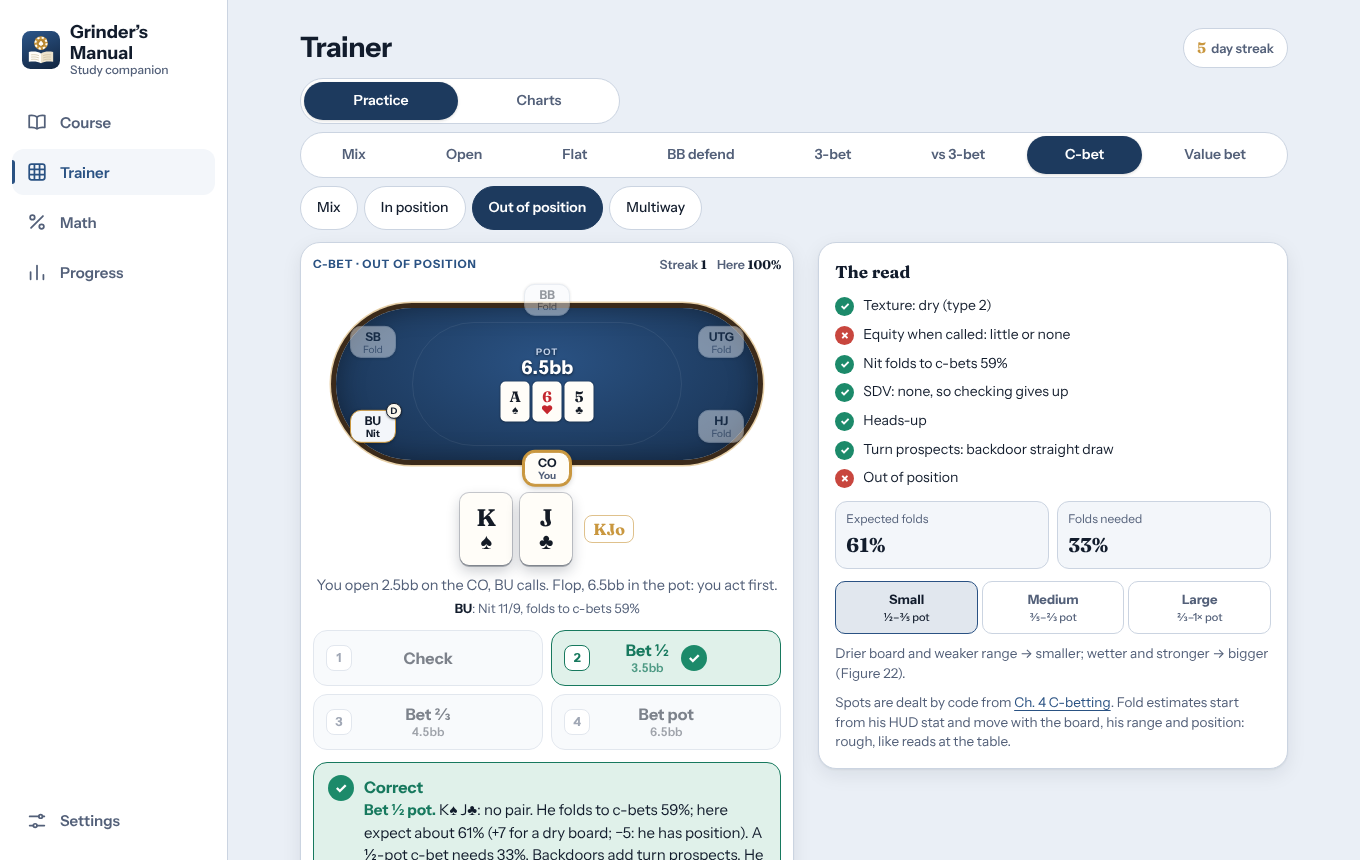
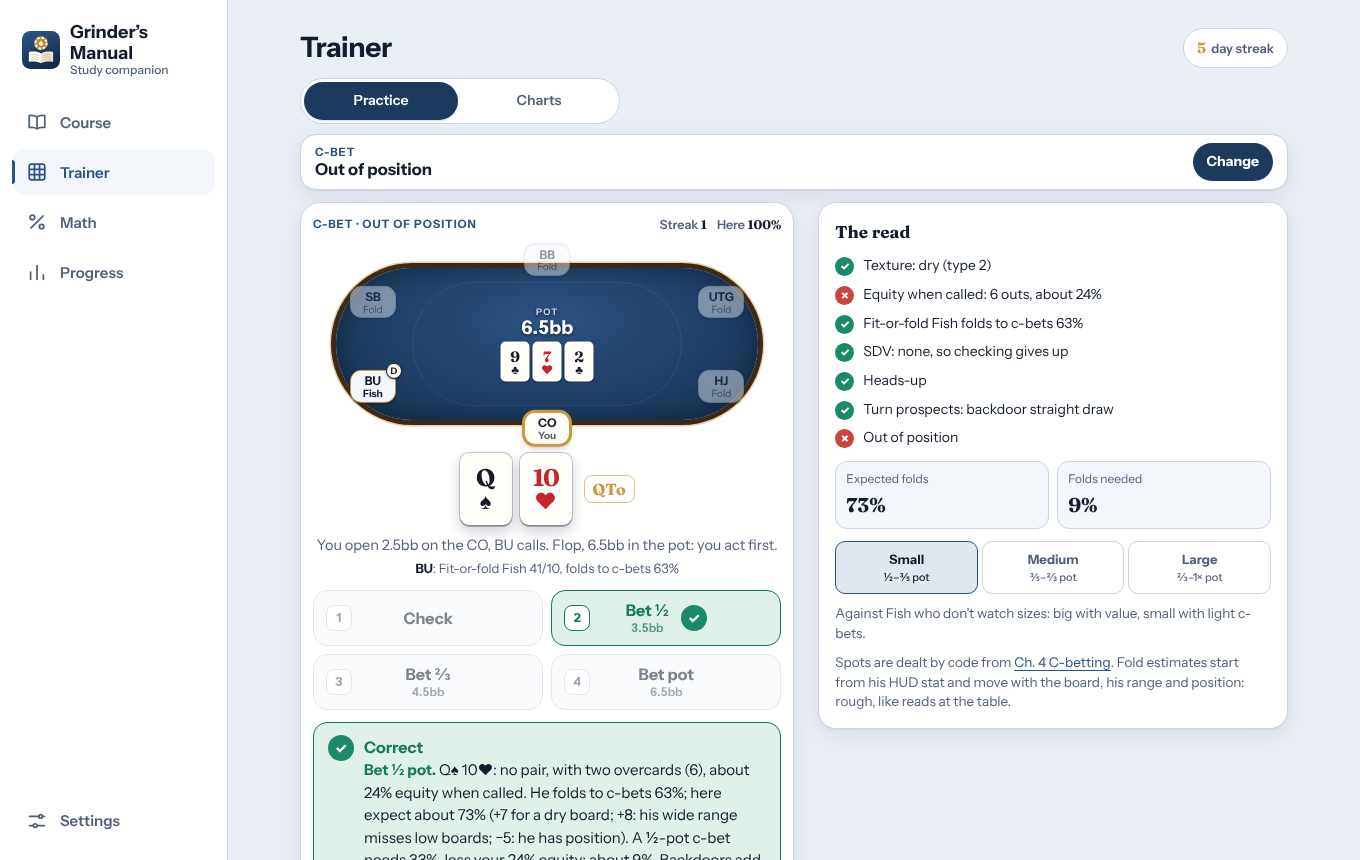
Trainer: pick topics from one bar and a list (v2.14.0)
The two sideways-scrolling rows (groups, then spots) were cut off on
phones and hid the Mix options. Practice and Charts now show one bar
with the current topic; tapping it opens a sheet listing every topic
by group (pre-flop, post-flop), with Mix rows, the all-topics mix
toggles, and your accuracy and due reviews on each spot.

Claude-Session: https://claude.ai/code/session_01WSPbWCX6AwDLBdZwwdxWUU

Changed region(s): [[0.2162, 0.1512, 0.9574, 1.0]]

diff --git a/index.html b/index.html
@@ -343,15 +343,50 @@ select,input[type=number]{background:var(--surface);border:1.5px solid var(--lin
 @media (hover:none) and (pointer:coarse){.opt .k{display:none}.acts .opt,.acts.n3 .opt{padding:0 8px}.kbd-only{display:none!important}}
 @media (max-width:440px){#v-ranges>.seg button{font-size:12.5px;padding:0 9px}}
 @media (max-width:440px){.acts.n3 .opt{padding:0 6px;font-size:15.5px}.acts.n3 .opt .k{display:none}}
-.tabseg{margin-bottom:8px;max-width:320px}
+.tabseg{margin-bottom:10px;max-width:320px}
+#v-ranges .tpk-bar,#v-charts .tpk-bar{margin-bottom:4px}
 .chinfo p{margin:8px 0 0;font-size:15px;line-height:1.5;color:var(--muted)}
 .chinfo .cpick{color:var(--ink);min-height:46px;padding:10px 12px;border-radius:12px;background:var(--surface-2);border:1px solid var(--line);margin:12px 0}
 .chinfo .btn{width:100%}
 #v-charts .rc{cursor:pointer}
-/* Trainer: group row scrolls on phones; post-flop spots */
-.gseg{overflow-x:auto;scrollbar-width:none}
-.gseg::-webkit-scrollbar{display:none}
-.gseg button{flex:1 0 auto}
+/* topic picker */
+.tpk-bar{display:flex;align-items:center;gap:10px;width:100%;min-height:56px;padding:8px 14px;border-radius:16px;border:1.5px solid var(--line);background:var(--surface);color:var(--ink);text-align:left;box-shadow:var(--shadow);touch-action:manipulation}
+.tpk-bar:active,.tpk-bar.press{transform:scale(.99);border-color:var(--felt-2)}
+.tpk-txt{flex:1;min-width:0;display:flex;flex-direction:column;line-height:1.25}
+.tpk-txt small{font-size:11.5px;font-weight:700;text-transform:uppercase;letter-spacing:.08em;color:var(--accent)}
+.tpk-txt b{font-size:16.5px;font-weight:700;white-space:nowrap;overflow:hidden;text-overflow:ellipsis}
+.tpk-chg{flex:none;font-size:14px;font-weight:700;color:var(--felt-ink);background:var(--felt);padding:8px 14px;border-radius:999px}
+.tpk{position:fixed;inset:0;z-index:60;background:rgba(8,14,24,.5);display:flex;align-items:flex-end;justify-content:center;animation:tpkfade .15s ease-out}
+.tpk-sheet{background:var(--bg);width:100%;max-width:560px;max-height:88vh;border-radius:22px 22px 0 0;display:flex;flex-direction:column;box-shadow:0 -6px 30px rgba(0,0,0,.3);animation:tpkup .2s ease-out;padding-bottom:env(safe-area-inset-bottom)}
+@media (min-width:960px){.tpk{align-items:center}.tpk-sheet{border-radius:22px;max-height:80vh}}
+@keyframes tpkup{from{transform:translateY(40px);opacity:.6}to{transform:none;opacity:1}}
+@keyframes tpkfade{from{opacity:0}to{opacity:1}}
+@media (prefers-reduced-motion:reduce){.tpk,.tpk-sheet{animation:none}}
+.tpk-head{display:flex;align-items:center;justify-content:space-between;padding:14px 16px 10px;border-bottom:1px solid var(--line)}
+.tpk-head b{font-size:17px}
+.tpk-body{overflow-y:auto;padding:4px 14px 18px;overscroll-behavior:contain}
+.tpk-sec{font-size:11.5px;font-weight:700;text-transform:uppercase;letter-spacing:.1em;color:var(--muted);margin:16px 4px 8px}
+.tpk-grp{background:var(--surface);border:1px solid var(--line);border-radius:14px;margin-bottom:8px;overflow:hidden}
+.tpk-grp summary{list-style:none;display:flex;align-items:center;gap:10px;min-height:50px;padding:0 14px;cursor:pointer}
+.tpk-grp summary::-webkit-details-marker{display:none}
+.tpk-grp summary::after{content:"›";margin-left:auto;font-size:20px;color:var(--muted);transition:transform .15s}
+.tpk-grp[open] summary::after{transform:rotate(90deg)}
+.tpk-grp summary b{font-size:16px}
+.tpk-grp summary small{font-size:13px;color:var(--muted)}
+.tpk-row{display:flex;align-items:center;gap:10px;width:100%;min-height:48px;padding:6px 14px;border:0;border-top:1px solid var(--line);background:none;color:var(--ink);text-align:left;touch-action:manipulation}
+.tpk-body>.tpk-row{border:1px solid var(--line);border-radius:14px;background:var(--surface)}
+.tpk-row .tpk-txt b{font-size:15px;font-weight:600}
+.tpk-row .tpk-txt small{text-transform:none;letter-spacing:0;font-weight:500;color:var(--muted);font-size:12.5px}
+.tpk-row[aria-current="true"]{background:color-mix(in srgb,var(--felt-2) 13%,var(--surface));box-shadow:inset 3px 0 0 var(--felt-2)}
+.tpk-row[aria-current="true"] .tpk-txt b{font-weight:800}
+.tpk-row:active,.tpk-row.press{background:color-mix(in srgb,var(--felt-2) 10%,var(--surface))}
+.tpk-acc{flex:none;min-width:40px;text-align:right;font-family:var(--serif);font-weight:700;font-size:14px;color:var(--muted)}
+.tpk-due{flex:none;font-size:11.5px;font-weight:700;color:var(--gold-ink);background:var(--gold);padding:2px 8px;border-radius:999px}
+.tpk-tg{display:flex;flex-wrap:wrap;gap:6px;margin:8px 0 2px}
+.tpk-tg .chip{min-height:40px;padding:0 12px;font-size:13.5px}
+.tpk-tg .chip[aria-pressed="true"]{background:var(--felt);border-color:var(--felt);color:var(--felt-ink)}
+body.tpk-on{overflow:hidden}
+/* Trainer: post-flop spots */
 .rvtag{display:inline-block;margin-right:6px;padding:1px 7px;border-radius:999px;background:var(--gold);color:var(--gold-ink);font-size:10.5px;letter-spacing:.06em}
 .ptable.post{height:206px}
 .pboard{display:flex;gap:3px;margin-top:5px}
@@ -1552,7 +1587,7 @@ const revIsDue=(it,now,count)=>it.t?now>=it.t:count>=it.n;
 function revDue(list,keys,now,count){return list.filter(it=>keys.includes(it.k)&&revIsDue(it,now,count));}
 
 /* ===================== UI (everything below needs a browser) ===================== */
-var BUILD={v:"2.13.1",at:"2026-11-22T18:48Z"};
+var BUILD={v:"2.14.0",at:"2026-11-23T03:37Z"};
 const $=(s,r=document)=>r.querySelector(s);
 const $$=(s,r=document)=>[...r.querySelectorAll(s)];
 
@@ -1578,7 +1613,7 @@ function applyTheme(){
 }
 /* iOS Safari only shows :active press styles when the page has a touchstart listener. */
 document.addEventListener('touchstart',()=>{},{passive:true});
-const PRESSABLE='.opt,.btn,.chip,.seg button,.peek,.tile,.lrow,.prow,.iconbtn';
+const PRESSABLE='.opt,.btn,.chip,.seg button,.peek,.tile,.lrow,.prow,.iconbtn,.tpk-bar,.tpk-row';
 document.addEventListener('pointerdown',e=>{
   if(e.button>0)return;const t=e.target.closest(PRESSABLE);if(!t||t.disabled)return;
   t.classList.add('press');
@@ -1803,19 +1838,12 @@ function gridHTML(m,cur){
 function renderRanges(){
   if(!RT.hand&&!RT.ps)dealHand();
   const g=grpOf(RT.mode),mg=mixGroups();
-  const row2=g==='All'?`<div class="chips" role="group" aria-label="Topics in the mix">${GROUPS.map(x=>`<button class="chip tgl" data-tg="${x}" aria-pressed="${mg.includes(x)}">${mg.includes(x)?'✓ ':''}${x}</button>`).join('')}</div>`
-    :`<div class="chips" role="group" aria-label="Spot">${[['mix-'+g,'Mix']].concat(Object.entries(SPOTS).filter(([k,v])=>v.grp===g).map(([k,v])=>[k,v.label])).map(([k,t])=>`<button class="chip" data-m="${k}" aria-pressed="${k===RT.mode}">${t}</button>`).join('')}</div>`;
+  const cur=RT.mode==='mix-All'?['Mix',mg.length===GROUPS.length?'All topics':mg.join(', ')]:RT.mode.startsWith('mix-')?[g,'Mix of all '+plural(modeKeys(RT.mode).length,'spot')]:[g,SPOTS[RT.mode].label];
   $('#v-ranges').innerHTML=`${tabsHTML('ranges')}
-  <div class="seg gseg" role="group" aria-label="Spot type">${['All',...GROUPS].map(x=>`<button data-g="${x}" aria-pressed="${x===g}">${x==='All'?'Mix':x}</button>`).join('')}</div>
-  ${row2}
+  ${pickBarHTML(cur[0],cur[1])}
   <div class="drill"><div class="left" id="rt-spot"></div><div class="box chartbox" id="rt-chart"></div></div>`;
   bindTabs();
-  $$('#v-ranges [data-g]').forEach(b=>b.onclick=()=>setMode('mix-'+b.dataset.g));
-  $$('#v-ranges [data-m]').forEach(b=>b.onclick=()=>setMode(b.dataset.m));
-  $$('#v-ranges [data-tg]').forEach(b=>b.onclick=()=>{const x=b.dataset.tg;let cur=mixGroups().slice();
-    if(cur.includes(x)){if(cur.length===1){toast('Keep at least one topic in the mix');return;}cur=cur.filter(y=>y!==x);}else cur.push(x);
-    S.mixG=cur.length===GROUPS.length?[]:cur;save();RT.since=REV_GAP;dealHand();renderRanges();});
-  $$('#v-ranges [aria-pressed="true"]').forEach(sel=>{const pr=sel.parentNode.getBoundingClientRect(),r=sel.getBoundingClientRect();if(r.right>pr.right-14)sel.parentNode.scrollLeft+=r.right-pr.right+28;});
+  $('#v-ranges .tpk-bar').onclick=()=>openPicker('ranges');
   drawSpot();drawChart();
 }
 function drawSpot(){
@@ -1919,6 +1947,47 @@ function answerRT(k){
   const nx=$('#rt-next');if(nx)nx.focus({preventScroll:true});
 }
 
+/* ---------- topic picker: one bar shows what you're on; tapping it opens a list of every topic ----------
+   Groups are an accordion (yours open), each spot shows your accuracy and due reviews. Practice adds Mix rows and the
+   topics in the all-topics mix; Charts lists the chart spots only. */
+const pickBarHTML=(g,label)=>`<button class="tpk-bar" aria-haspopup="dialog"><span class="tpk-txt"><small>${g}</small><b>${label}</b></span><span class="tpk-chg">Change</span></button>`;
+function openPicker(view){
+  const charts=view==='charts',now=Date.now(),cur=charts?CH.mode:RT.mode,curG=charts?MODES[CH.mode].grp:grpOf(RT.mode);
+  const groups=charts?CGROUPS:GROUPS,src=charts?MODES:SPOTS,mg=mixGroups();
+  const acc=k=>{const x=S.drills[k];return x&&x.n?pct(x.c/x.n):'';};
+  const due=ks=>charts?0:revDue(S.rev,ks,now,S.rvN).length;
+  const row=(k,t,sub,d)=>`<button class="tpk-row" data-pick="${k}"${k===cur?' aria-current="true"':''}><span class="tpk-txt"><b>${t}</b>${sub?`<small>${sub}</small>`:''}</span>${d?`<span class="tpk-due">${d} due</span>`:''}<span class="tpk-acc">${acc(k)}</span></button>`;
+  const grp=g=>{const ks=Object.keys(src).filter(k=>src[k].grp===g),gd=due(ks);
+    return `<details class="tpk-grp"${g===curG?' open':''}><summary><b>${g}</b><small>${plural(ks.length,charts?'chart':'spot')}${gd?` · ${gd} due`:''}</small></summary>
+      ${charts?'':row('mix-'+g,'Mix all '+g,'',0)}${ks.map(k=>row(k,src[k].label,'',due([k]))).join('')}</details>`;};
+  const pre=groups.filter(g=>!['C-bet','Value bet'].includes(g)),post=groups.filter(g=>['C-bet','Value bet'].includes(g));
+  const el=document.createElement('div');el.className='tpk';el.id='tpk';
+  el.innerHTML=`<div class="tpk-sheet" role="dialog" aria-modal="true" aria-label="${charts?'Choose a chart':'Choose what to practise'}">
+    <div class="tpk-head"><b>${charts?'Choose a chart':'Choose what to practise'}</b><button class="iconbtn" id="tpk-x" aria-label="Close">✕</button></div>
+    <div class="tpk-body">
+    ${charts?'':`<div class="tpk-sec">Everything</div>${row('mix-All','Mix of all topics',mg.length===GROUPS.length?'Every topic':mg.length+' of '+GROUPS.length+' topics, tick below',due(modeKeys('mix-All')))}
+      <div class="tpk-tg" role="group" aria-label="Topics in the mix">${GROUPS.map(x=>`<button class="chip" data-tg="${x}" aria-pressed="${mg.includes(x)}">${mg.includes(x)?'✓ ':''}${x}</button>`).join('')}</div>`}
+    <div class="tpk-sec">Pre-flop${charts?' charts':''}</div>${pre.map(grp).join('')}
+    ${post.length?`<div class="tpk-sec">Post-flop</div>${post.map(grp).join('')}`:''}
+    </div></div>`;
+  document.body.appendChild(el);document.body.classList.add('tpk-on');
+  const close=()=>{el.remove();document.body.classList.remove('tpk-on');document.removeEventListener('keydown',esc,true);const b=$('#v-'+view+' .tpk-bar');if(b)b.focus({preventScroll:true});};
+  const esc=e=>{if(e.key==='Escape'){e.stopPropagation();close();}};
+  document.addEventListener('keydown',esc,true);
+  el.onclick=e=>{if(e.target===el)close();};
+  $('#tpk-x').onclick=close;
+  $$('#tpk [data-pick]').forEach(b=>b.onclick=()=>{const k=b.dataset.pick;close();
+    if(charts){CH.mode=k;CH.pick=null;history.replaceState(null,'','#charts/'+k);renderCharts();}
+    else if(k===RT.mode){}else setMode(k);
+    window.scrollTo(0,0);});
+  $$('#tpk [data-tg]').forEach(b=>b.onclick=()=>{const x=b.dataset.tg;let c=mixGroups().slice();
+    if(c.includes(x)){if(c.length===1){toast('Keep at least one topic in the mix');return;}c=c.filter(y=>y!==x);}else c.push(x);
+    S.mixG=c.length===GROUPS.length?[]:c;save();
+    const on=mixGroups();$$('#tpk [data-tg]').forEach(t=>{const i=on.includes(t.dataset.tg);t.setAttribute('aria-pressed',i);t.textContent=(i?'✓ ':'')+t.dataset.tg;});
+    const sub=$('#tpk [data-pick="mix-All"] small');if(sub)sub.textContent=on.length===GROUPS.length?'Every topic':on.length+' of '+GROUPS.length+' topics, tick below';
+    if(RT.mode==='mix-All'){RT.since=REV_GAP;dealHand();renderRanges();}});
+  const cr=$('#tpk [aria-current="true"]');if(cr)cr.scrollIntoView({block:'center'});else $('#tpk-x').focus();
+}
 /* ---------- charts: look up any range without dealing hands ---------- */
 const tabsHTML=v=>`<div class="seg tabseg" role="group" aria-label="Trainer view"><button data-view="ranges" aria-pressed="${v==='ranges'}">Practice</button><button data-view="charts" aria-pressed="${v==='charts'}">Charts</button></div>`;
 const bindTabs=()=>$$('[data-view]').forEach(b=>b.onclick=()=>go(b.dataset.view==='charts'?'charts/'+CH.mode:'ranges/'+RT.mode));
@@ -1927,17 +1996,14 @@ let CH={mode:'open-UTG',pick:null};
 function renderCharts(){
   const md=MODES[CH.mode],g=md.grp;
   $('#v-charts').innerHTML=`${tabsHTML('charts')}
-  <div class="seg gseg" role="group" aria-label="Chart group">${CGROUPS.map(x=>`<button data-cg="${x}" aria-pressed="${x===g}">${x}</button>`).join('')}</div>
-  <div class="chips" role="group" aria-label="Chart">${Object.entries(MODES).filter(([k,v])=>v.grp===g).map(([k,v])=>`<button class="chip" data-cm="${k}" aria-pressed="${k===CH.mode}">${v.label}</button>`).join('')}</div>
+  ${pickBarHTML(g,md.label)}
   <div class="drill"><div class="box chartbox"><div class="ch"><b>${md.label} chart</b></div>${gridHTML(CH.mode,CH.pick)}${chartNote(md)}</div>
     <div class="box chinfo"><b class="num" style="font-size:17px">${g} · ${md.label}</b><p>${md.info}</p>
       <p class="cpick" aria-live="polite">${CH.pick?pickText(CH.mode,CH.pick):'Tap a square to see what the book does with that hand.'}</p>
       <a class="btn" href="#ranges/${CH.mode}">Practise this chart →</a></div></div>`;
   bindTabs();
-  $$('#v-charts [data-cg]').forEach(b=>b.onclick=()=>{CH.mode=Object.keys(MODES).find(k=>MODES[k].grp===b.dataset.cg);CH.pick=null;history.replaceState(null,'','#charts/'+CH.mode);renderCharts();});
-  $$('#v-charts [data-cm]').forEach(b=>b.onclick=()=>{CH.mode=b.dataset.cm;CH.pick=null;history.replaceState(null,'','#charts/'+CH.mode);renderCharts();});
+  $('#v-charts .tpk-bar').onclick=()=>openPicker('charts');
   $$('#v-charts .rc').forEach(c=>c.onclick=()=>{CH.pick=c.textContent;renderCharts();});
-  $$('#v-charts [aria-pressed="true"]').forEach(sel=>{const pr=sel.parentNode.getBoundingClientRect(),r=sel.getBoundingClientRect();if(r.right>pr.right-14)sel.parentNode.scrollLeft+=r.right-pr.right+28;});
 }
 function pickText(m,h){const md=MODES[m],t=tierOf(m,h),a=answerOf(m,h),lab=(md.opts.find(o=>o[0]===a)||['','Fold'])[1];
   if(md.pool&&!md.pool.includes(h))return `<b>${h}</b>: not in your opening range, so this spot never comes up with it.`;

diff --git a/sw.js b/sw.js
@@ -1,4 +1,4 @@
-const CACHE = "grinders-manual-2.13.1";
+const CACHE = "grinders-manual-2.14.0";
 const FILES = ["./", "index.html", "manifest.webmanifest", "icon.svg", "icon-192.png", "icon-512.png", "icon-maskable-512.png", "apple-touch-icon.png",
   "fonts/fraunces-latin-500-normal.woff2", "fonts/fraunces-latin-700-normal.woff2", "fonts/instrument-sans-latin-400-normal.woff2",
   "fonts/instrument-sans-latin-500-normal.woff2", "fonts/instrument-sans-latin-600-normal.woff2", "fonts/instrument-sans-latin-700-normal.woff2"];

diff --git a/CLAUDE.md b/CLAUDE.md
@@ -18,7 +18,7 @@ Everything above `/* ===================== UI` is data and pure functions; the t
 3. `toolHTML`/`bindTool`: the interactive lesson tools. `MATH`: drill generators returning `{q, opts, a, why}`.
 3b. Post-flop spots (`/* ---------- post-flop spots`, v2.11): `PMODES` (`cb-ip`, `cb-oop`, `cb-mw` in group C-bet; `vb-turn`, `vb-river` in group Value bet), each with `gen()` returning a plain-JSON spot `{kind, seat, vill, hole, board, pot, info, hud, opts:[key,label,amount], ans, verdict, why, notes{key:why-not}, principle, factors|q}`. Cards are `'Td'` strings. `pfScore` (evaluator), `pfRead` (made-hand class: strong/over/top/mid/low/under/none), `pfTexture` (Ch. 4's types 1-5; the tests check the lesson's ten example flops), `pfOuts` (the Ch. 4 outs table; tests check the book's KJ/AQ/77 examples). `PF_TYPES` are the book's player types (Reg, Nit, Fit-or-fold Fish, Station Fish, Aggro Fish) with HUD ranges. C-bets: `cbGrade` = value → bet; stable SDV → check; light hands → expected folds (`cbFold`: his Fold to F Cbet moved by texture, range, position, raise stat; multiplied multiway) vs needed (RFE of the size minus equity), dealt only when the margin is 8+ points either way; size `cbSize` = the lesson's sizing grid vs aware players (flop dry 1-2 / semi-wet 3 / wet 4-5 = 0/1/2, plus range BU 0, CO/SB 1, UTG/HJ 2; 0-1 small ½, 2 medium ⅔, 3-4 large pot; the Ch. 4 lesson shows the same grid), big value / small light vs Fish. Value bets: `vbGrade` = the Ch. 5 flowchart (Q1 relative strength with scare cards and opponent type, Q2 stack vs pot, Q3 slowplay only with a short stack), size by elasticity (Fish inelastic → pot, Reg → ⅔, thin vs Reg → ½, all-in when the stack is under a pot). Unclear spots return null and aren't dealt. Change a rule → update the explanation text and the tests together.
 3c. Spaced repetition (`LADDER`, `revAdd`, `revAnswer`, `revDue`): a missed trainer spot (pre-flop `{h,u}` or the whole post-flop spot) is saved in `S.rev` and comes back in the topic being drilled 3-4 spots later, ~15 later, then 1, 3, 7 days; `REV_GAP` keeps it to one spot in four. `S.rvN` counts spots dealt.
-4. UI: hash routes `#home`, `#lesson-<id>`, `#ranges[/<mode>|/mix-<group>|/mix-All]` (the Trainer tab, Practice view; `SPOTS` = `MODES` + `PMODES`; `mix-All` deals from every topic or the ones ticked in `S.mixG`, picking a topic first so post-flop isn't swamped by the 42 chart spots), `#charts[/<mode>]` (Trainer, Charts view: browse any chart without dealing, tap a square for its answer, `CH`, `renderCharts`; Practice/Charts switch is `tabsHTML`), `#math`, `#progress`, `#settings`. `render()` per view. The range trainer draws the table with `tableHTML` (seats on an oval, hero at the bottom, chips `.stk` between seat and pot, dealer button on BU) and the chart with `gridHTML`.
+4. UI: hash routes `#home`, `#lesson-<id>`, `#ranges[/<mode>|/mix-<group>|/mix-All]` (the Trainer tab, Practice view; `SPOTS` = `MODES` + `PMODES`; `mix-All` deals from every topic or the ones ticked in `S.mixG`, picking a topic first so post-flop isn't swamped by the 42 chart spots), `#charts[/<mode>]` (Trainer, Charts view: browse any chart without dealing, tap a square for its answer, `CH`, `renderCharts`; Practice/Charts switch is `tabsHTML`; v2.14 replaced the two sideways-scrolling topic rows with one bar, `pickBarHTML`, that opens `openPicker(view)`: a sheet listing every group as an accordion with Mix rows, the all-topics mix toggles, and per-spot accuracy and due reviews), `#math`, `#progress`, `#settings`. `render()` per view. The range trainer draws the table with `tableHTML` (seats on an oval, hero at the bottom, chips `.stk` between seat and pot, dealer button on BU) and the chart with `gridHTML`.
 5. Storage: localStorage key `gm-trainer-v1`, state `{lessons, quiz, drills, days, math, log, rev, rvN, mixG, theme}`. Keep the key and shape; add fields with defaults in `BLANK()`.
 
 ## Conventions

diff --git a/README.md b/README.md
@@ -16,6 +16,7 @@
 - **Interactive tools** inside the lessons: steal calculator, ISO sizing, bet size vs required fold equity, required equity, the value-bet flowchart and a 3-bet shape helper.
 - **Trainer, pre-flop.** 42 spots read cell by cell from the book’s charts, dealt on a six-seat table with who folded, raised, called or 3-bet, the blinds and the pot in chips, and your two cards. Groups: **Open** (default, fish/nit hunting and defensive ranges), **Flat** and **BB defend** (Ch. 6's calling charts, including the SB spots and calls by open size, with Ch. 10's value 3-bets on top: 3-bet / call / fold), **3-bet** (polar, linear and squeeze ranges from Ch. 10) and **vs 3-bet** (4-bet / call / fold defences from Ch. 11). The chart opens after each answer with your hand marked. Each chart colour means one thing everywhere: navy = raise for value or a default open, violet = light raise (bluff, raise-then-fold), gold = opens only at this table, teal = call, orange and rose = the wider call tiers, grey = fold, gold stripes = a default open you fold here. 60% of hands come from the edge of the range, where the decisions are. *Mix* deals random spots from a group.
 - **Trainer, post-flop.** Endless spots generated by code. **C-bet** (Ch. 4: in position, out of position, multiway): check, or bet ½, ⅔ or pot. The answer comes from the book’s seven factors (texture type 1-5, equity from outs, opponent type and his Fold to F Cbet, showdown value, players, turn prospects, position) and the Figure 22 sizing guide, balanced against Regs and unbalanced against Fish. **Value bet** (Ch. 5: turn and river): the three questions (relative hand strength, building the pot, slowplaying) and sizing by elasticity. After each answer: why, why not your pick, and the read (factor checklist, expected vs needed folds, sizing zone, or the three questions).
+- **Choosing a topic.** One bar shows what you’re practising; tap it for a list of every topic, grouped pre-flop and post-flop, with your accuracy and due reviews on each.
 - **Mix and Charts.** *Mix* deals from every topic at once, or only the topics you tick. *Charts* shows any of the book’s ranges without dealing hands: tap a square to see what the book does with that hand, then practise that chart.
 - **Spaced repetition.** Every trainer topic: a missed spot comes back in the topic you’re drilling 3-4 spots later, then ~15 spots later, then after 1, 3 and 7 days, at most one spot in four. A right answer moves it up a step, a miss starts it again.
 - **Math drills.** Endless required fold equity, equity to call, outs to equity, combined fold equity and combo questions, with the milestone table alongside.
